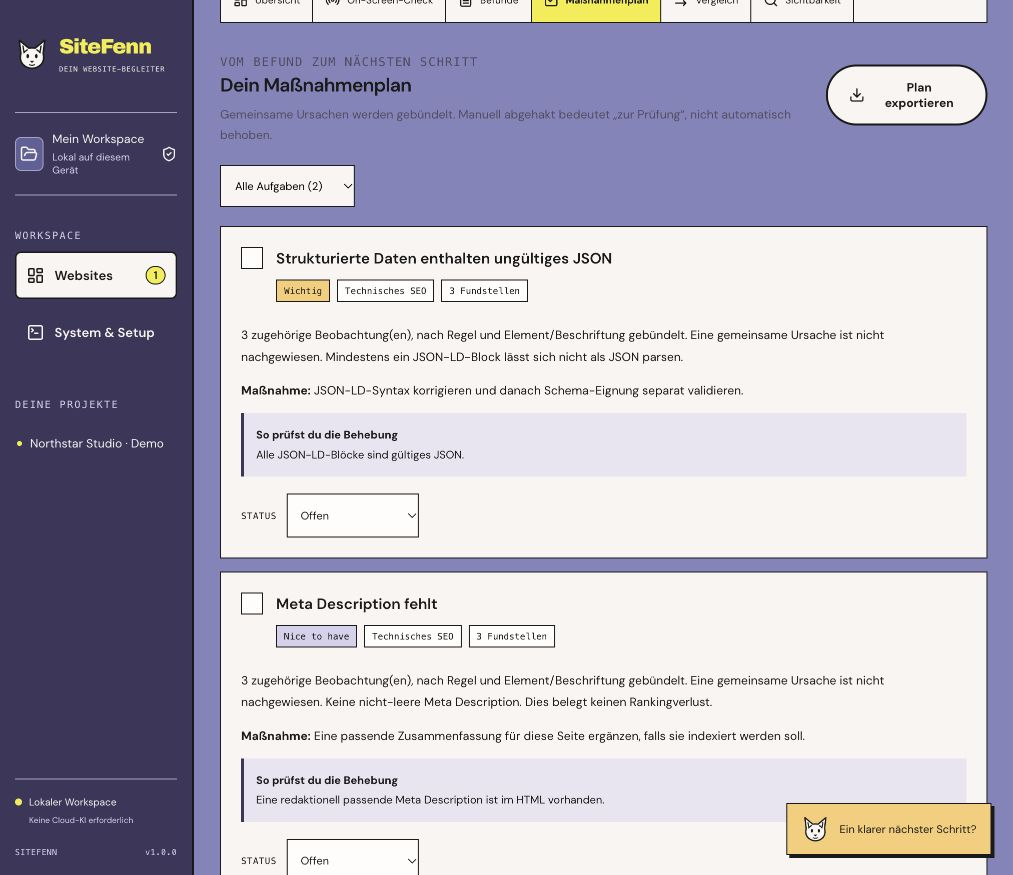
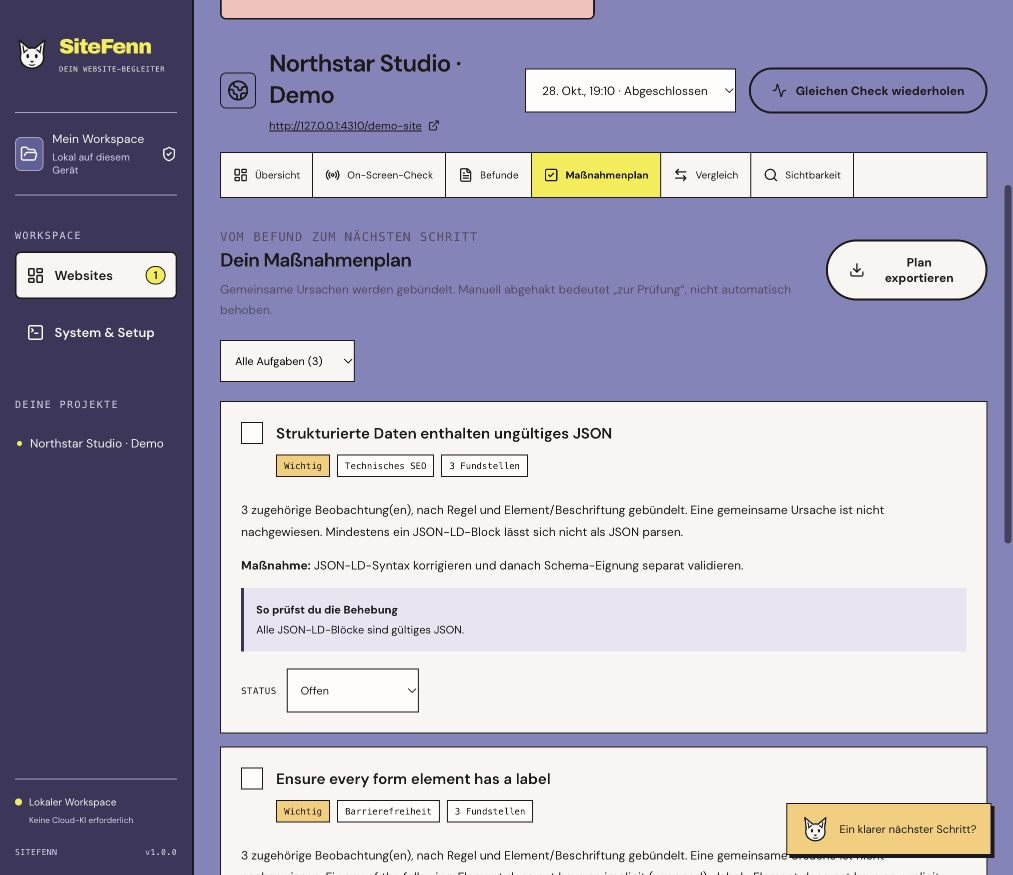
docs: publish verified 1.0 workflow and actual application screenshots

Changed region(s): [[0.2142, 0.0617, 1.0, 0.7406], [0.2142, 0.7714, 0.9793, 0.9874], [0.2142, 0.0, 0.9793, 0.0309]]

diff --git a/docs/RELEASE-1.0.md b/docs/RELEASE-1.0.md
@@ -15,6 +15,8 @@ Date: 2026-10-28. This records tests actually run, not an independent certificat
 
 Local result: **65/65 Node tests**, **9/9 browser tests**, typecheck and production build passed. `npm audit --omit=dev --audit-level=high` reported zero production vulnerabilities. CI results are available in the repository Actions history; they are separate from this local test record.
 
+The complete code at `d6caa7b` passed both macOS and Ubuntu CI, including the sandbox namespace setup, Node tests, build and browser end-to-end tests: [CI run](https://github.com/mxweir/website-audit-hub/actions/runs/40742478088).
+
 Coverage includes URL/origin restrictions, DNS-pinned proxy behavior, excluded redirects, local API session/CSRF protection, schema migration and backup/restore corruption checks, deterministic scoring and unknown bounds, conservative comparison, report export privacy, Search Console parsing, model locality/output validation, worker pause/resume/cancel and checkpoint reuse.
 
 The engine runs **20 labelled browser fixtures**. A narrow internal layout regression matrix contains eight pages × two rules: two true positives, fourteen true negatives, zero false positives and zero false negatives. These cases were used during implementation; they are **not a held-out benchmark**, and do not establish 95% accuracy on real websites.
@@ -39,6 +41,8 @@ An actual **qwen3:4b** request with synthetic evidence failed structured-output 
 An actual **qwen2.5:3b Q4_K_M** request with one synthetic finding produced validated JSON and correct finding/evidence references in 2.902 seconds (219 output tokens). A subsequent request through the built application's UI used nine findings from a real run of the owned demo and saved a structurally valid response. That response incorrectly described missing meta descriptions as non-empty. **Reference validation does not establish factual correctness.** The UI therefore places canonical rule observations beside each explanation, warns before the advice, labels generated content unverified, and collapses the model's free-form summary. The audit score and repair checklist remain rule-based. The underlying observation's double-negative wording was also simplified for future scans. Every model suggestion still requires review.
 
 Two model downloads total approximately 4.43 GB. Model weights are not in the repository and have separate licenses; Qwen2.5 3B uses the Qwen Research License. Local speech remains off in the saved settings.
+
+A final demo rerun with the clearer observation text completed all nine page/profile steps. A new request from the rebuilt UI returned validated explanations for all nine supplied findings. Its missing-description explanation retained the correct observation; this is one successful regression check, not a guarantee against other semantic errors. The saved screenshot `1.0-local-ai.jpg` shows that actual response with the facts/advice separation enabled.
 
 ## CI integration corrections
 

diff --git a/CHANGELOG.md b/CHANGELOG.md
@@ -1,8 +1,8 @@
 # Changelog
 
-Implementation changes are distinguished from release publication and CI status. A prepared version heading does not claim a published GitHub release or completed external pilot.
+Changes, migrations and tested limits for each release. See [GitHub Releases](https://github.com/mxweir/website-audit-hub/releases) for publication details.
 
-## 1.0.0 — Prepared for release validation
+## 1.0.0 — 2026-10-28
 
 ### Workspace and checks
 
@@ -26,6 +26,22 @@ Implementation changes are distinguished from release publication and CI status.
 - Local-backing preflight rejects remote/cloud aliases before transmitting website data.
 - Schema/evidence validation, thinking-capability handling, cancellation and resource limits.
 - Optional macOS system speech using Anna after explicit activation.
+- Real Qwen2.5 integration tested through the built hub; canonical observations remain visible beside unverified model advice. Qwen3 thinking-only validation failure is documented.
+
+### Validation and actual screens
+
+65 Node tests and nine browser tests passed locally, including real Chromium fixtures, Lighthouse and portable restore. See the [verification record](docs/RELEASE-1.0.md) for model failures, fixture scope and external validation still pending.
+
+![Actual 1.0 audit report](docs/screenshots/1.0-report.jpg)
+
+<details>
+<summary>Check, checklist and local assistant</summary>
+
+![Actual paused check](docs/screenshots/1.0-live-paused.jpg)
+![Actual repair checklist](docs/screenshots/1.0-tasks.jpg)
+![Actual local model response](docs/screenshots/1.0-local-ai.jpg)
+
+</details>
 
 ### Limits
 

diff --git a/README.md b/README.md
@@ -36,6 +36,10 @@ The built-in demo is an authorized fixture for trying the workflow without an ex
 
 ![Actual grouped repair checklist](docs/screenshots/1.0-tasks.jpg)
 
+**Ask a local model, with measured observations beside unverified advice:**
+
+![Actual Qwen2.5 response through Ollama](docs/screenshots/1.0-local-ai.jpg)
+
 </details>
 
 ## What gets checked
